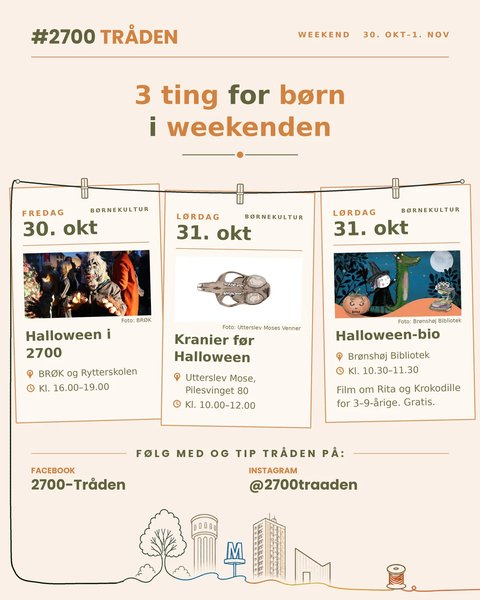
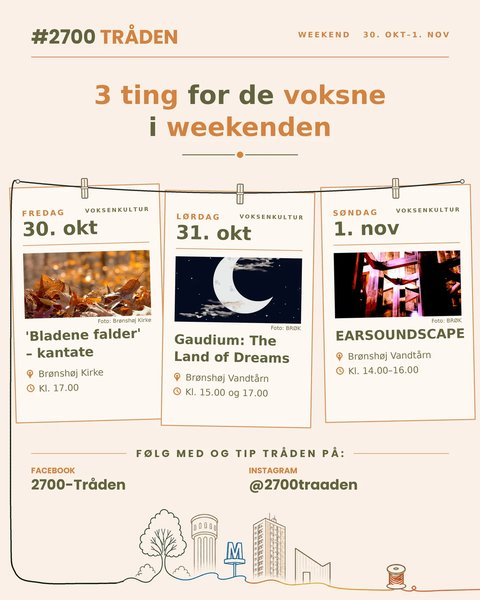
Weekendguiden 30. okt–1. nov: rækkefølge voksne, børn, kampe
Claude-Session: https://claude.ai/code/session_01GoxhuvQsMAuvMUsJ8LNeNS

diff --git a/index.html b/index.html
@@ -124,7 +124,7 @@ body.vlock{overflow:hidden}
 
   <section class="fpost" id="todoweekend1028" data-total="3">
     <div class="fhead"><img class="av" src="assets/segment-todoweekend1028.webp" alt=""><div class="fname"><b>Weekendguiden</b><span>28. oktober 2026</span></div></div>
-    <div class="fwrap"><div class="strip" tabindex="0" aria-label="Kort: Hvad sker der i 2700 i denne weekend?"><div class="card k-img" aria-label="Slide 1 af 3: 3 ting for børn i weekenden"><img src="assets/slides/todoweekend1028/01.webp" alt="3 ting for børn i weekenden" width="1080" height="1350"></div><div class="card k-img" aria-label="Slide 2 af 3: 3 ting for de voksne i weekenden"><img src="assets/slides/todoweekend1028/02.webp" alt="3 ting for de voksne i weekenden" width="1080" height="1350" loading="lazy"></div><div class="card k-img" aria-label="Slide 3 af 3: 3 kampe i 2700 i weekenden"><img src="assets/slides/todoweekend1028/03.webp" alt="3 kampe i 2700 i weekenden" width="1080" height="1350" loading="lazy"></div></div><button type="button" class="sa l" aria-label="Forrige">‹</button><button type="button" class="sa r" aria-label="Næste">›</button><span class="scount"></span></div>
+    <div class="fwrap"><div class="strip" tabindex="0" aria-label="Kort: Hvad sker der i 2700 i denne weekend?"><div class="card k-img" aria-label="Slide 1 af 3: 3 ting for de voksne i weekenden"><img src="assets/slides/todoweekend1028/01.webp" alt="3 ting for de voksne i weekenden" width="1080" height="1350"></div><div class="card k-img" aria-label="Slide 2 af 3: 3 ting for børn i weekenden"><img src="assets/slides/todoweekend1028/02.webp" alt="3 ting for børn i weekenden" width="1080" height="1350" loading="lazy"></div><div class="card k-img" aria-label="Slide 3 af 3: 3 kampe i 2700 i weekenden"><img src="assets/slides/todoweekend1028/03.webp" alt="3 kampe i 2700 i weekenden" width="1080" height="1350" loading="lazy"></div></div><button type="button" class="sa l" aria-label="Forrige">‹</button><button type="button" class="sa r" aria-label="Næste">›</button><span class="scount"></span></div>
     <div class="sdots"></div>
     <p class="fcap"><b>Hvad sker der i 2700 i denne weekend?</b> Skal du med til Halloween i 2700 eller på kraniejagt i mosen? Skal I hepe på Husum, IF Stadion og Brønshøj? Eller hvad med en ny allehelgens-kantate i Brønshøj Kirke og drømmende korsang i vandtårnet?</p>
     <details class="all"><summary>Se hele programmet med links</summary><div class="alle">
